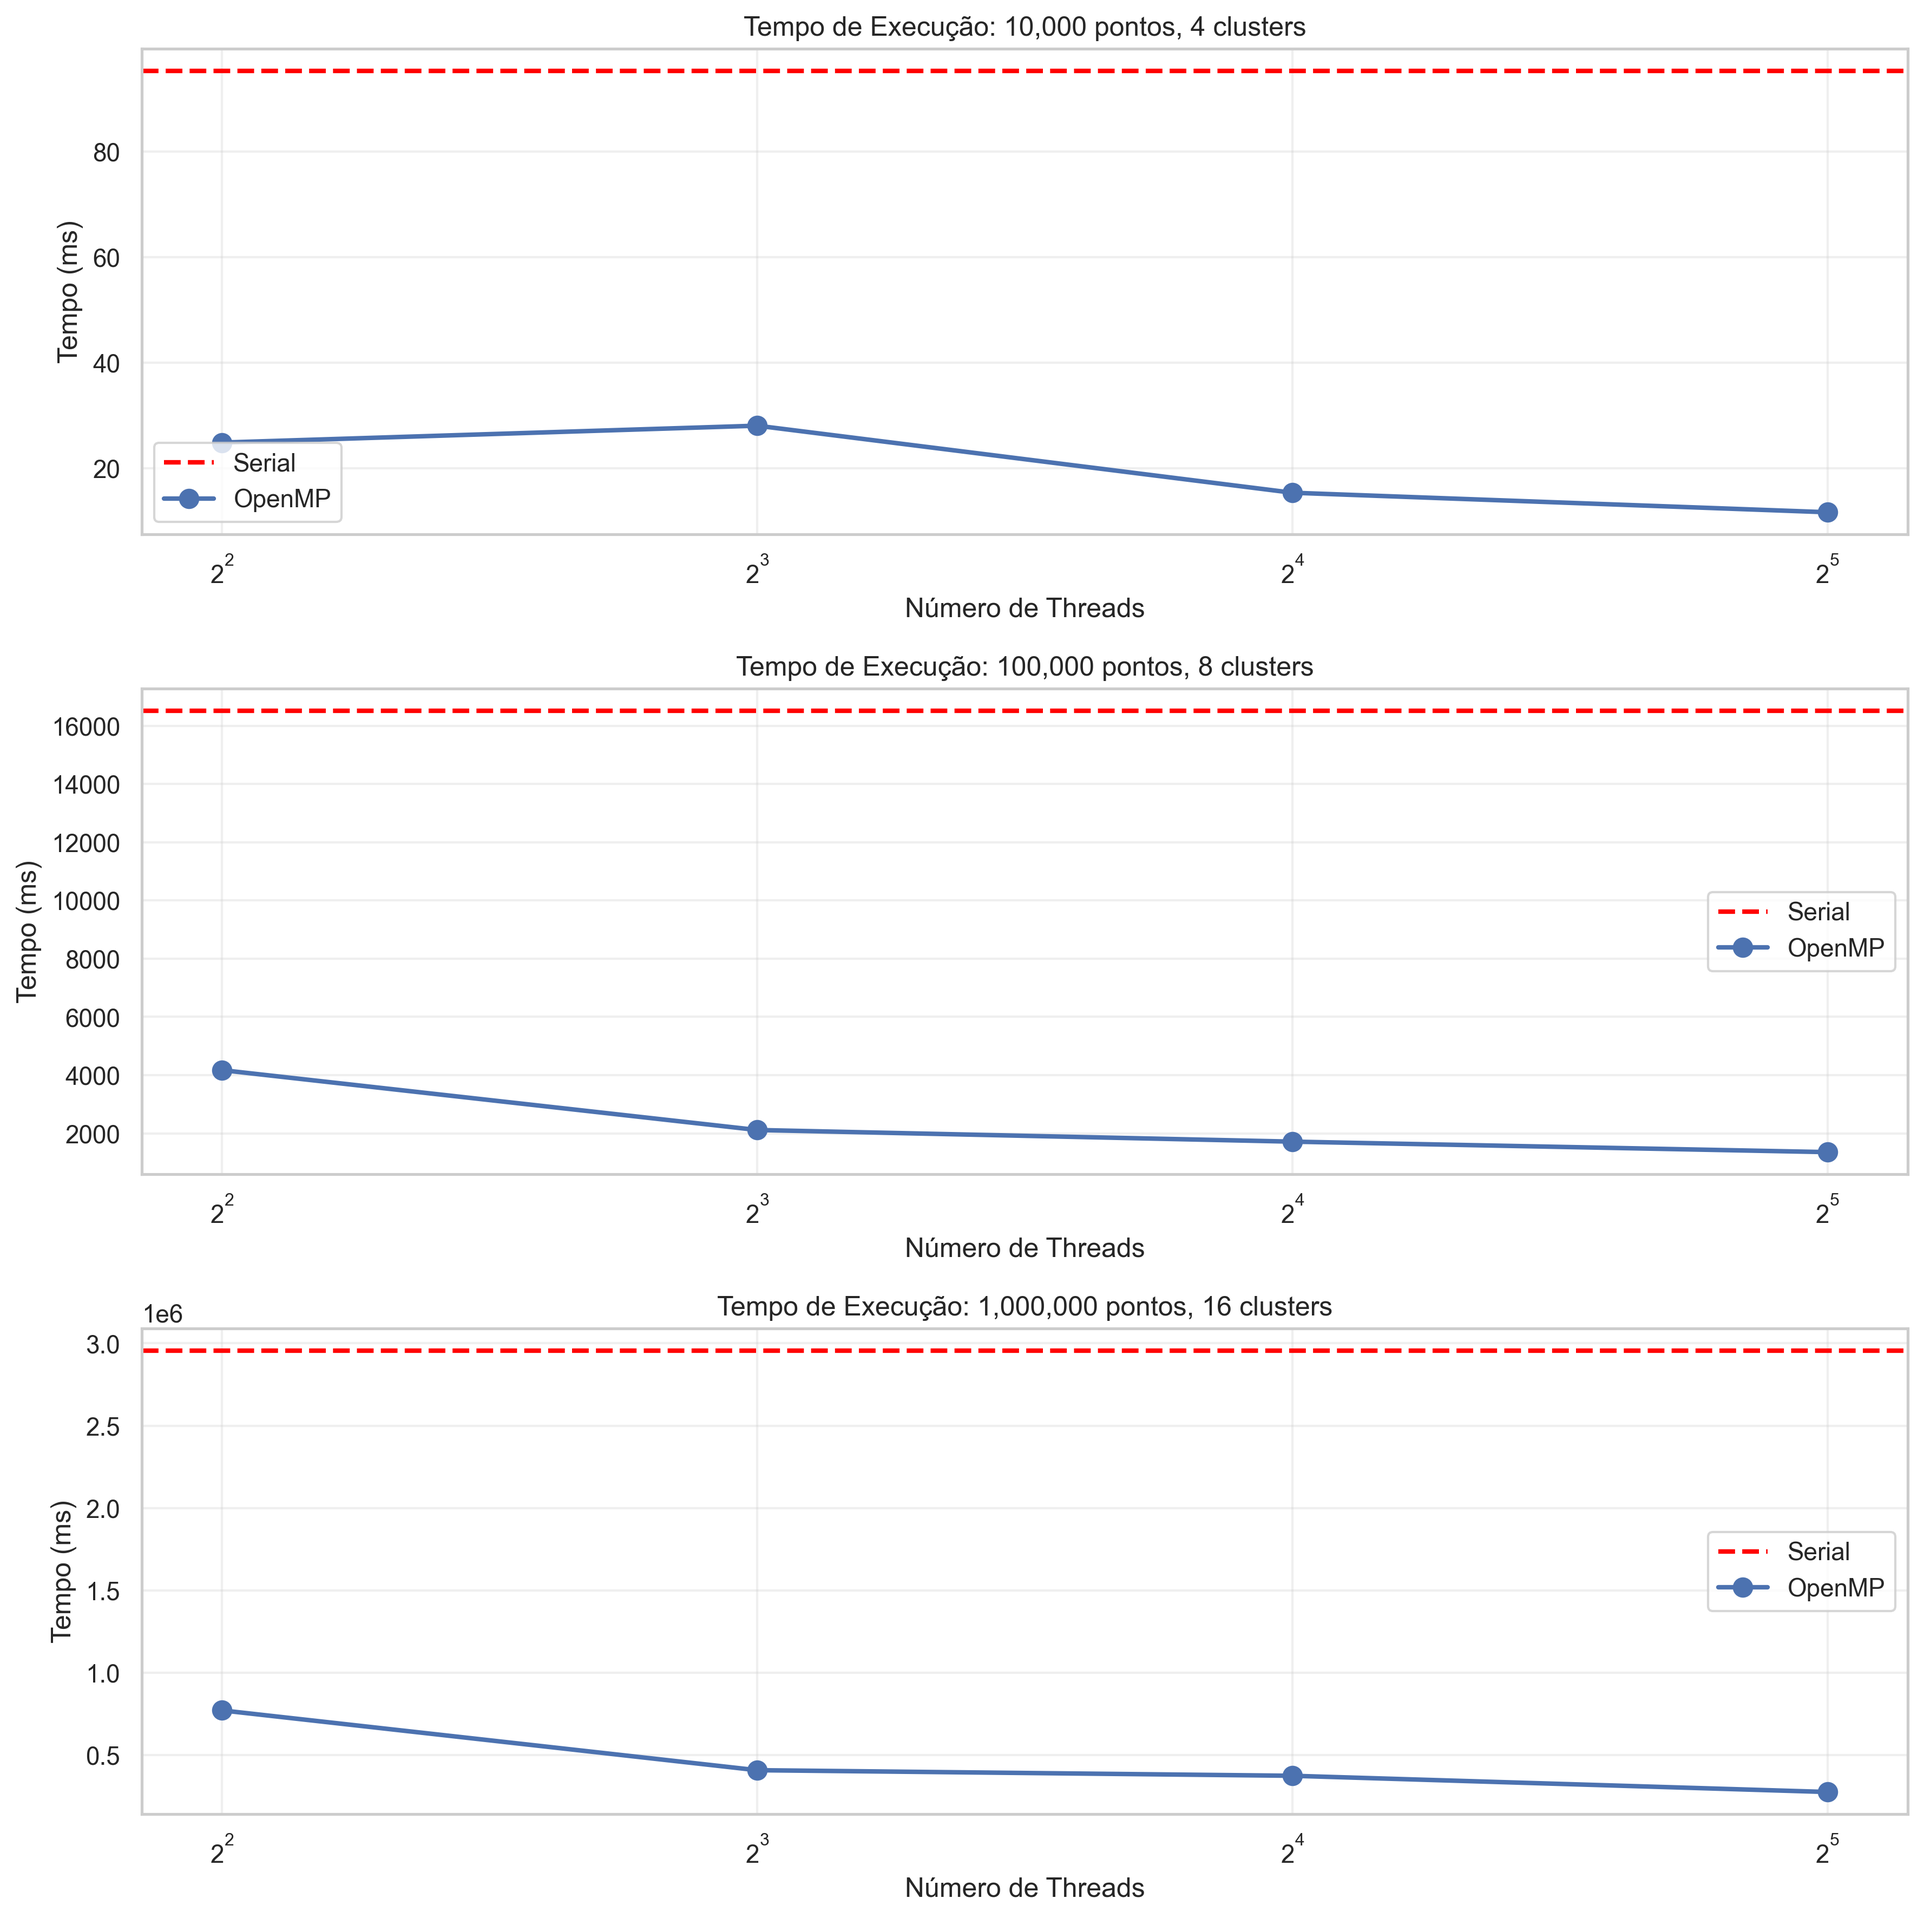
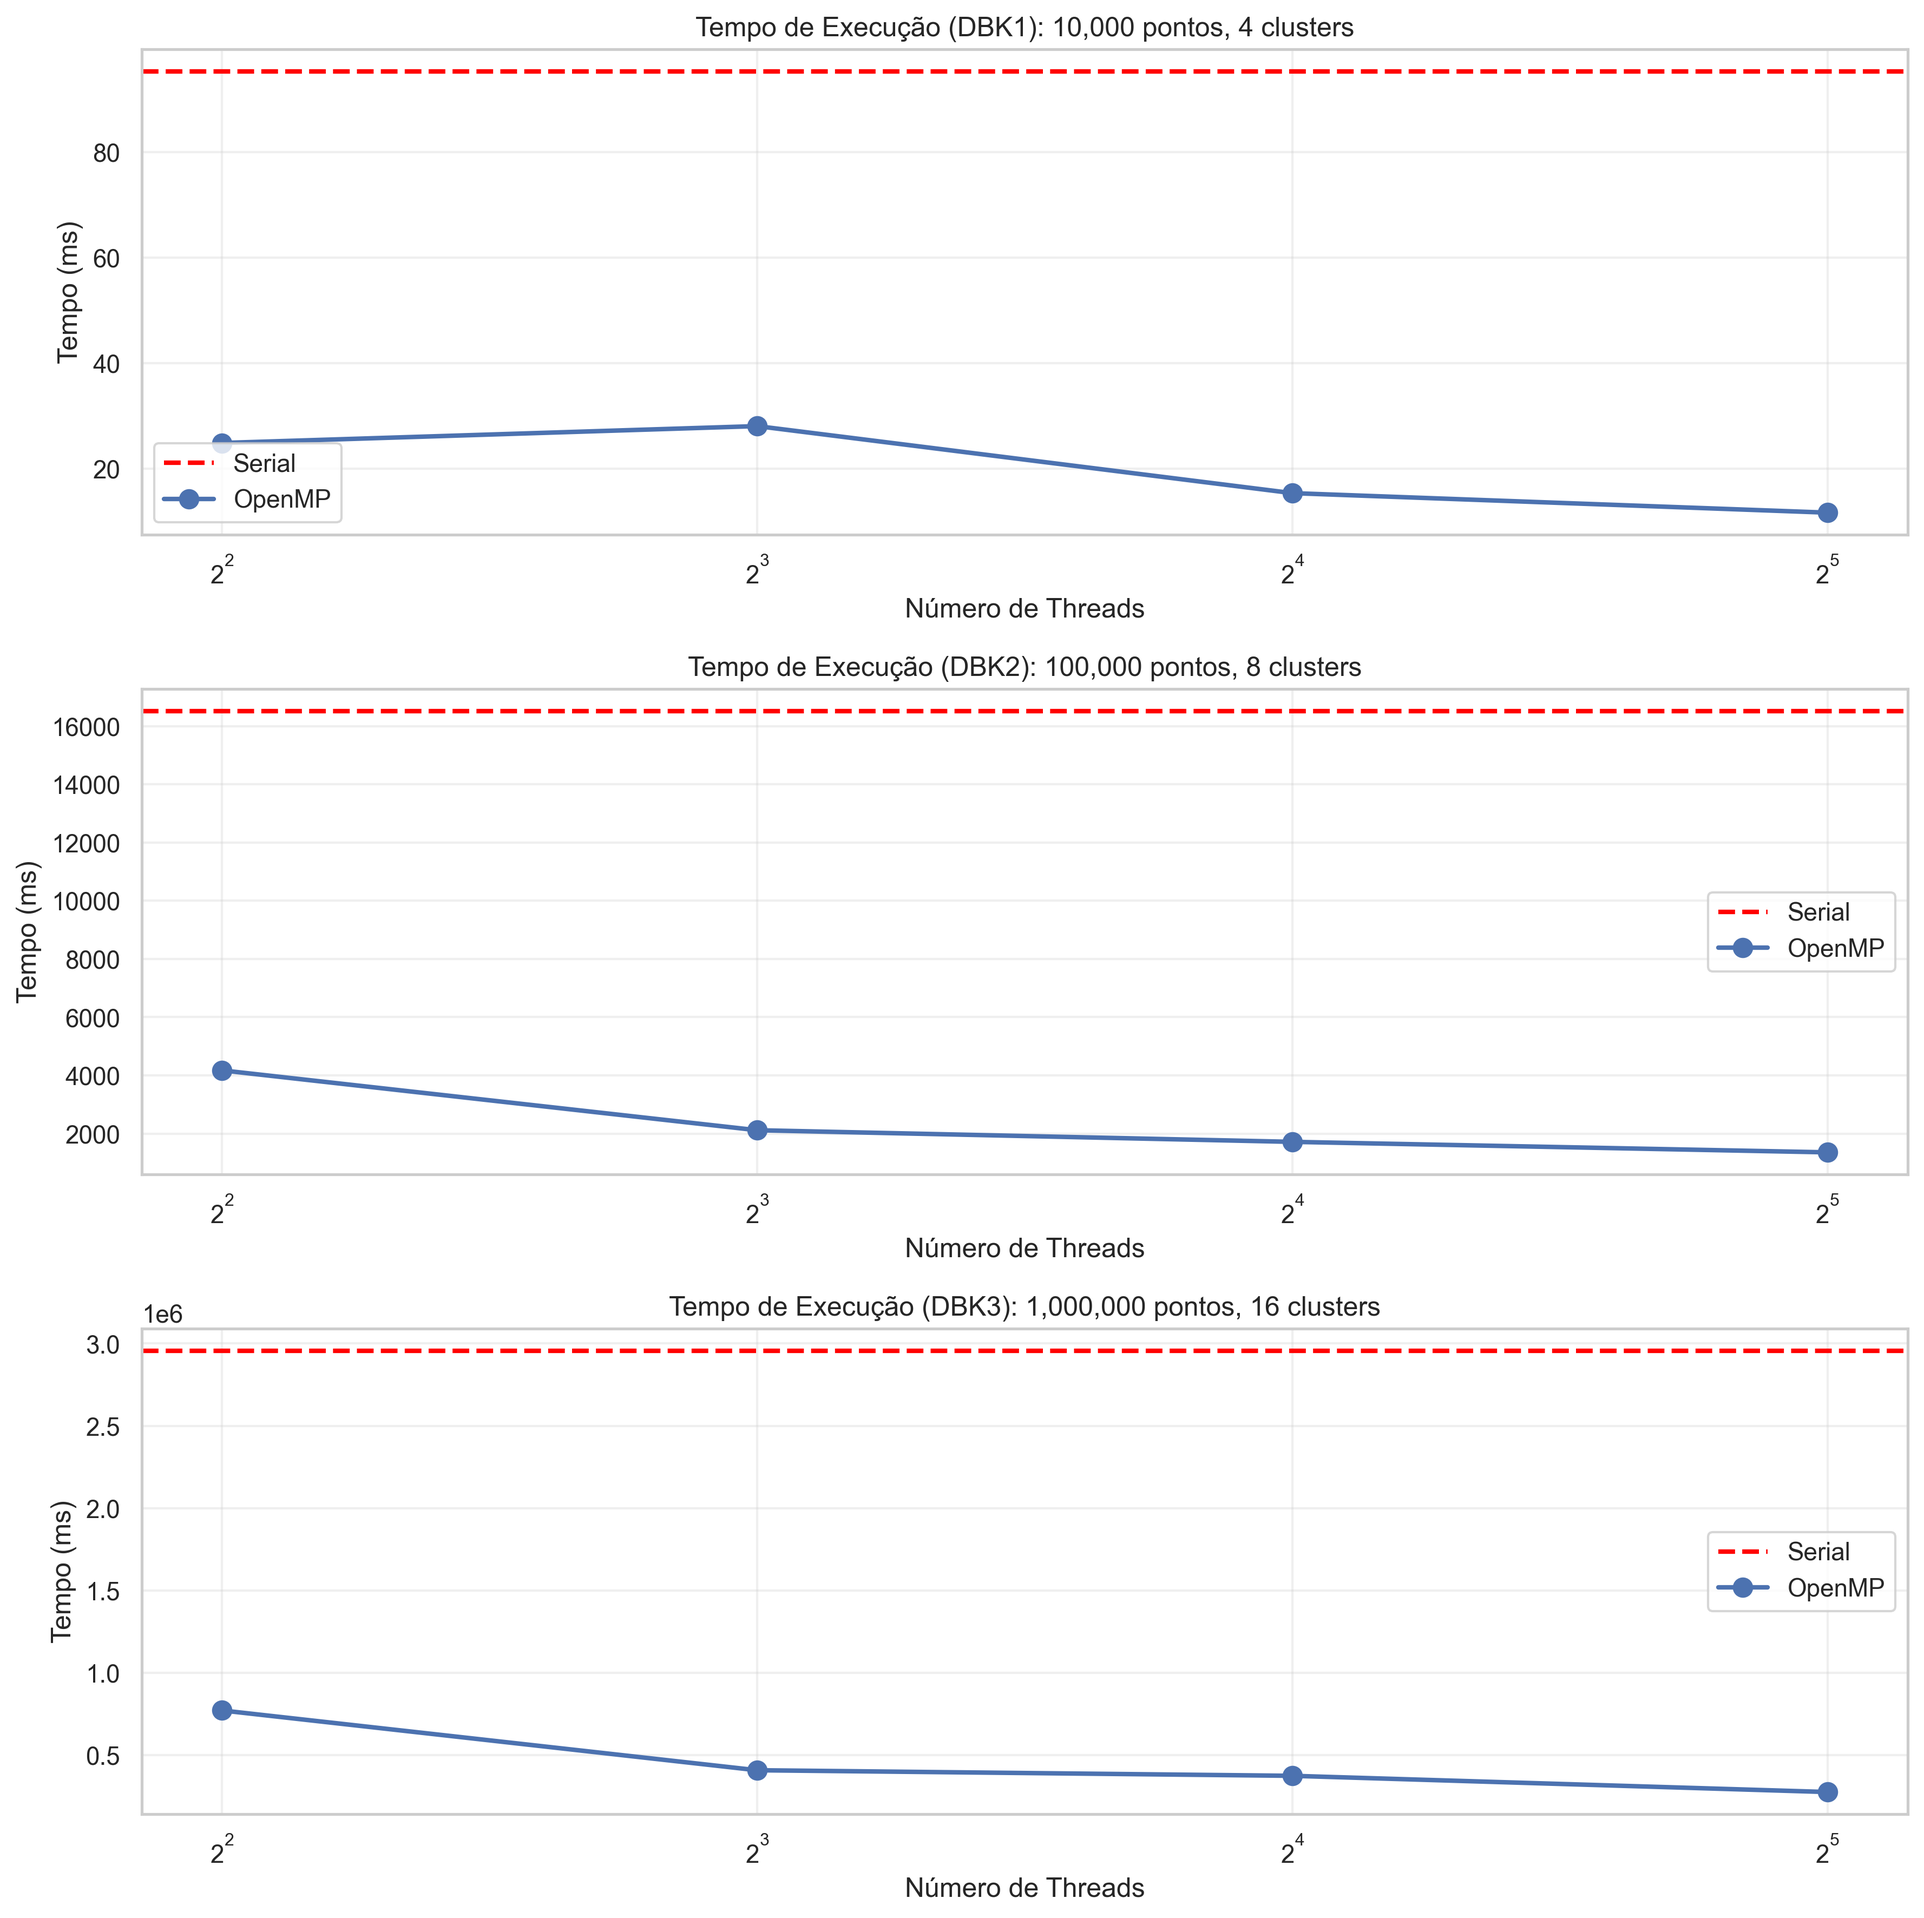
put experiments' name into

diff --git a/results/plot_results.py b/results/plot_results.py
@@ -41,7 +41,7 @@ def plot_speedup(df):
     for (n_pontos, n_centroids), group in df_parallel.groupby(['n_pontos', 'n_centroids']):
         ax1.plot(group['n_threads'], group['speedup'], 
                 marker='o', linewidth=2, markersize=8,
-                label=f'{n_pontos:,} pontos, {n_centroids} clusters')
+                label=f'DBK{int(np.log10(n_pontos)-3)}')
     
     # Linha ideal (speedup linear)
     max_threads = df['n_threads'].max()
@@ -64,7 +64,7 @@ def plot_speedup(df):
     for (n_pontos, n_centroids), group in df_parallel.groupby(['n_pontos', 'n_centroids']):
         ax2.plot(group['n_threads'], group['efficiency'], 
                 marker='s', linewidth=2, markersize=8,
-                label=f'{n_pontos:,} pontos, {n_centroids} clusters')
+                label=f'DBK{int(np.log10(n_pontos)-3)}')
     
     ax2.axhline(y=1.0, color='k', linestyle='--', alpha=0.5, label='Eficiência ideal')
     ax2.set_xlabel('Número de Threads')
@@ -109,7 +109,7 @@ def plot_execution_time(df):
         
         axes[i].set_xlabel('Número de Threads')
         axes[i].set_ylabel('Tempo (ms)')
-        axes[i].set_title(f'Tempo de Execução: {n_pontos:,} pontos, {n_centroids} clusters')
+        axes[i].set_title(f'Tempo de Execução (DBK{int(np.log10(n_pontos)-3)}): {n_pontos:,} pontos, {n_centroids} clusters')
         axes[i].legend()
         axes[i].grid(True, alpha=0.3)
         axes[i].set_xscale('log', base=2)
